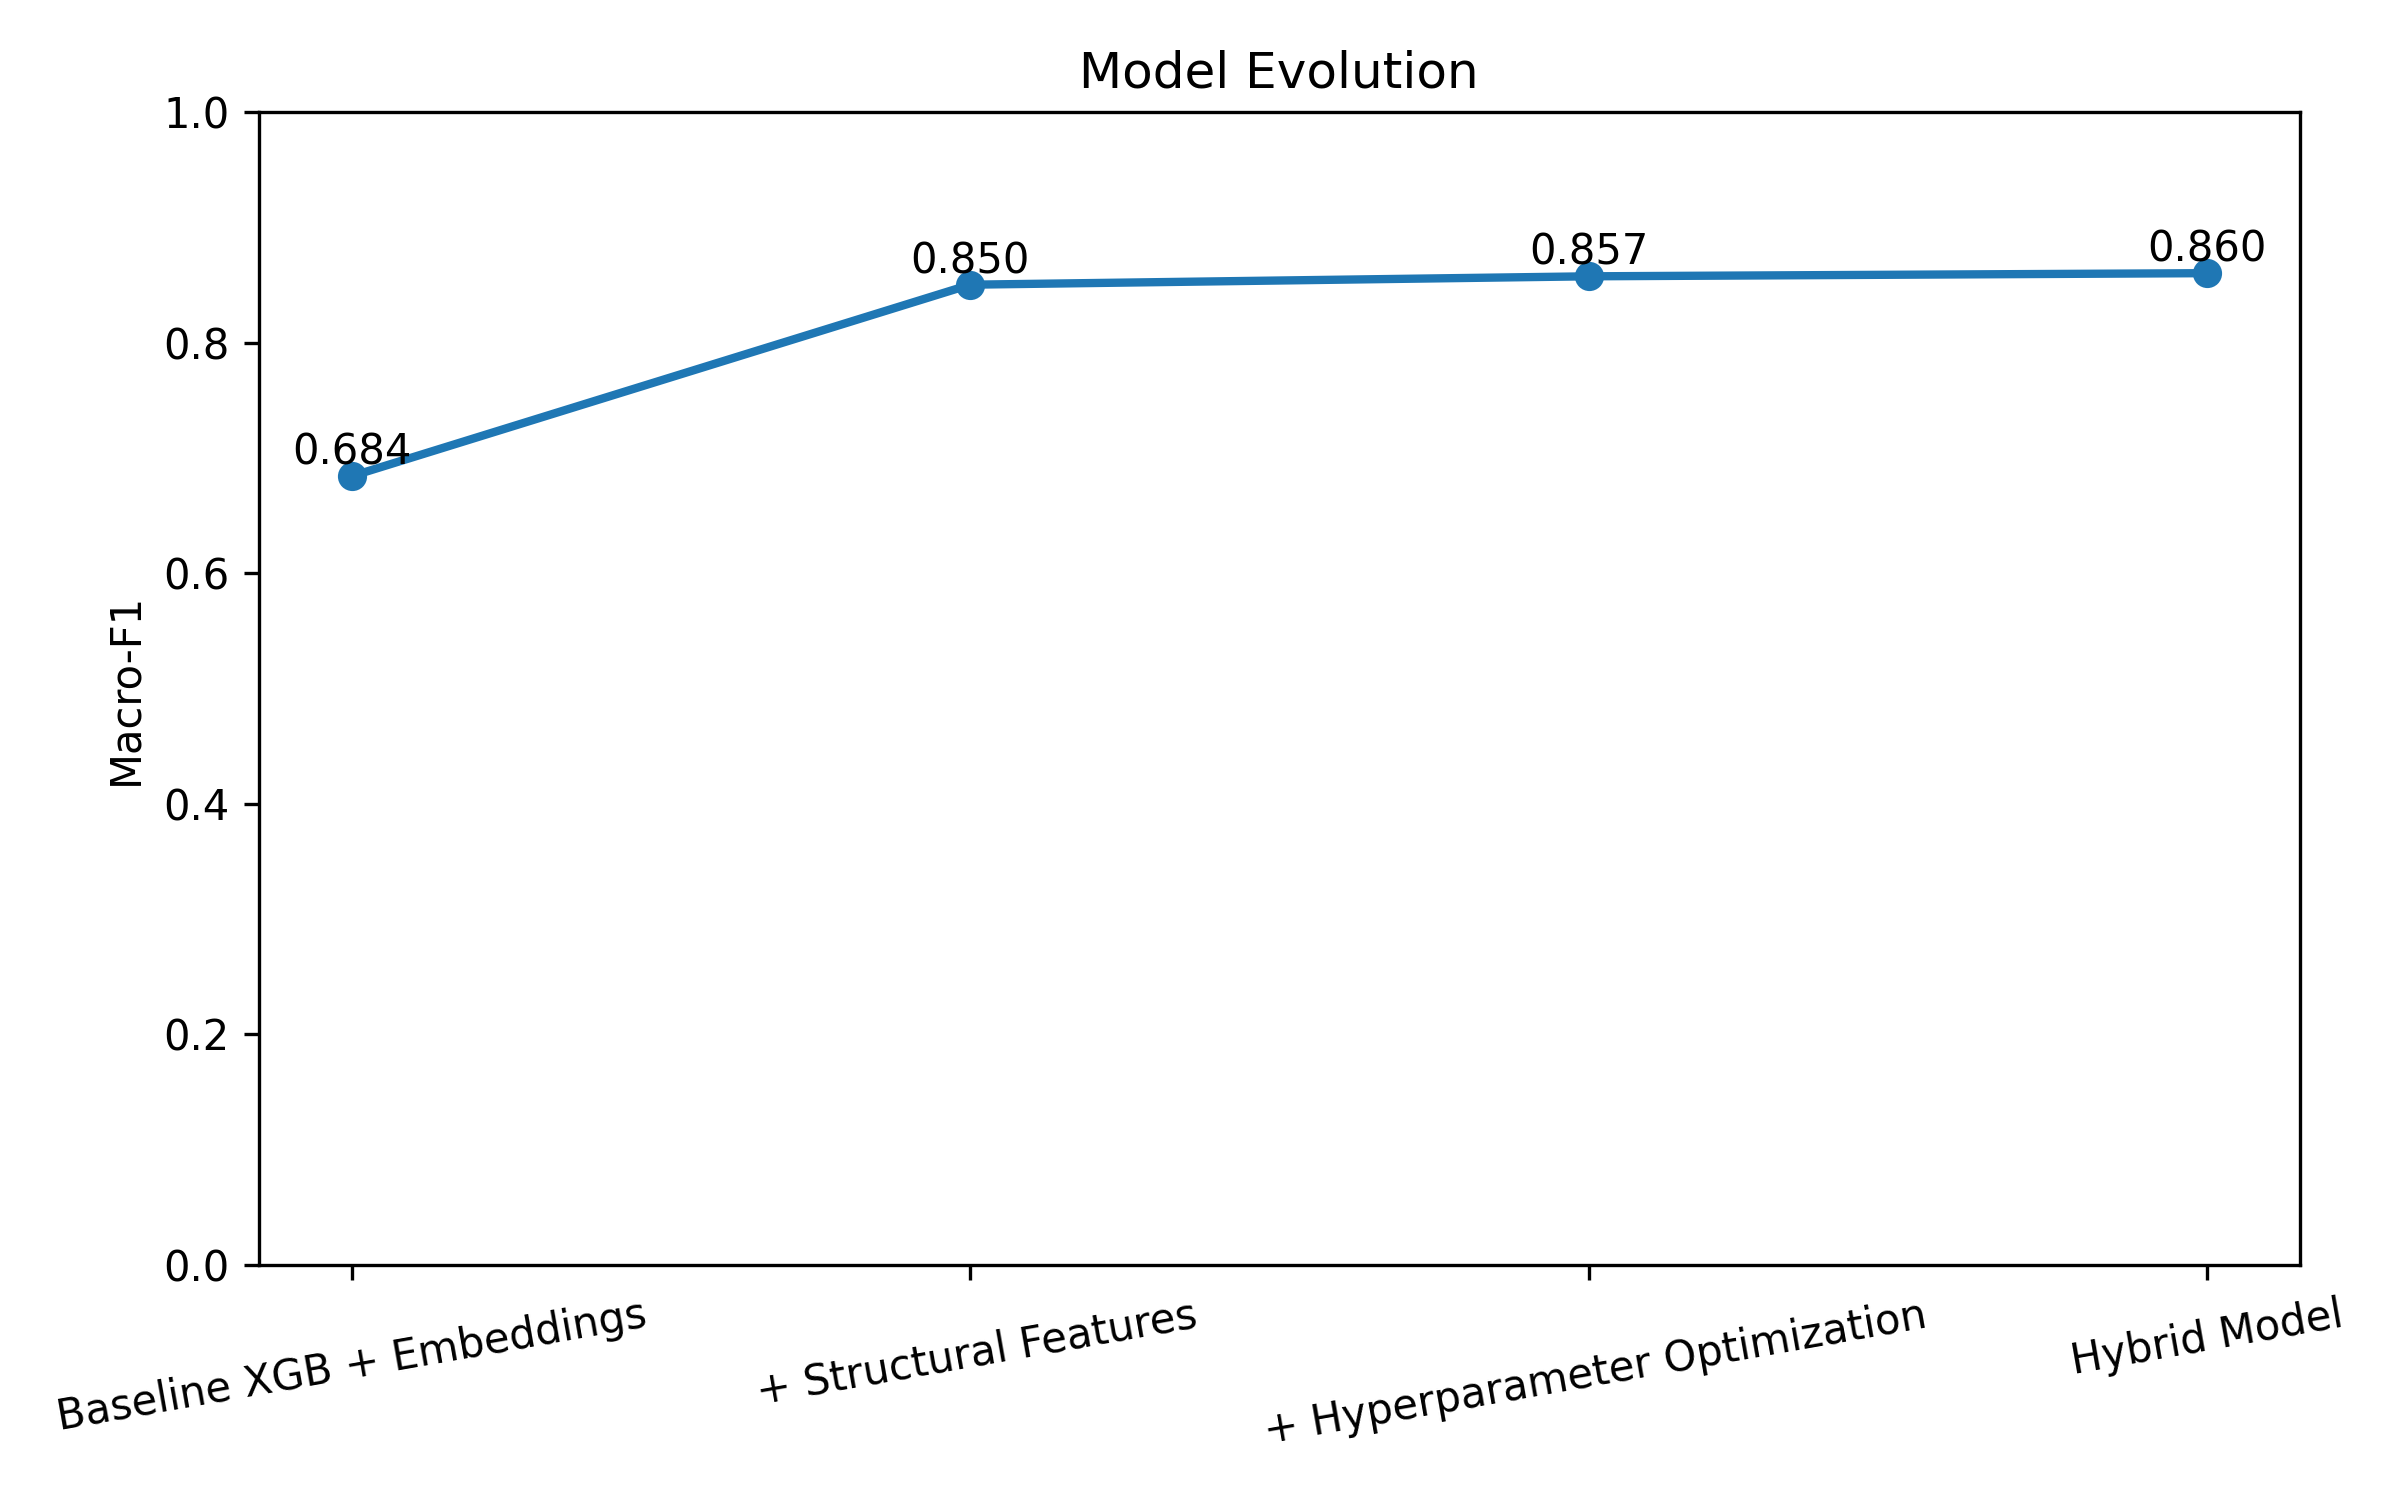
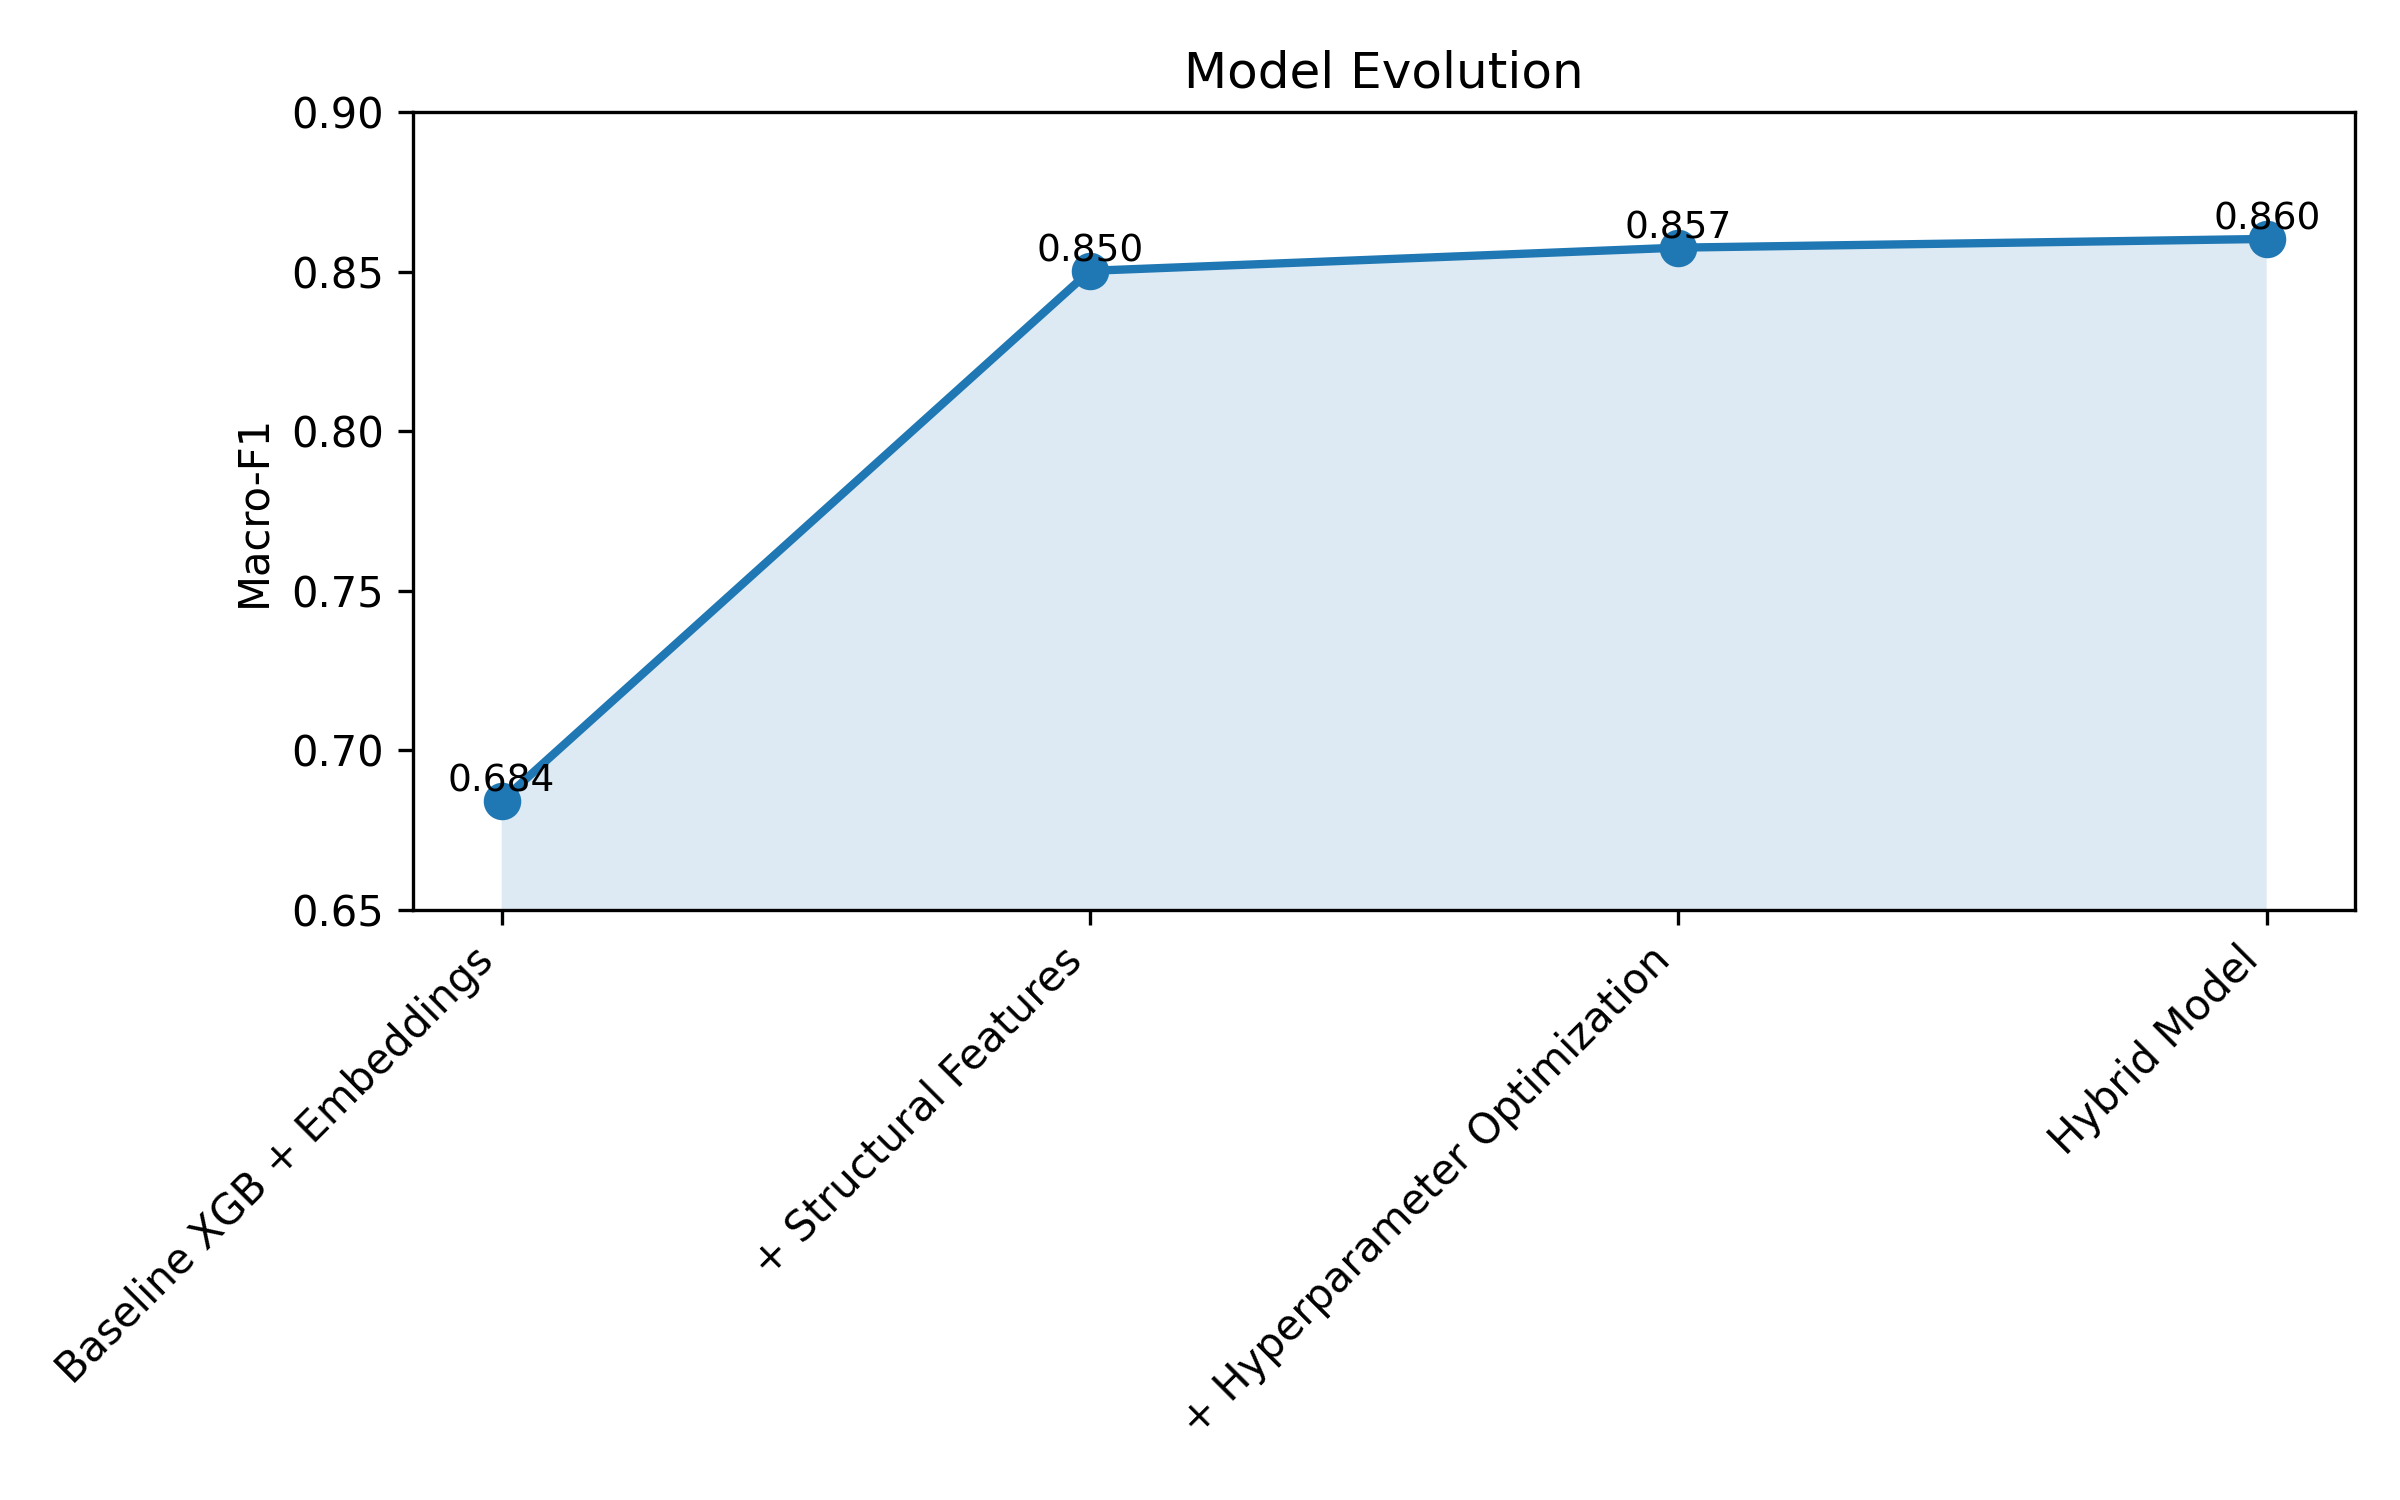
Letzte Seite mit neuen grafiken

diff --git a/streamlit/pages/08_Final_Hybrid_Model.py b/streamlit/pages/08_Final_Hybrid_Model.py
@@ -1,7 +1,5 @@
 import streamlit as st
 import pandas as pd
-import matplotlib.pyplot as plt
-import numpy as np
 
 # =========================================================
 # CONFIG
@@ -13,16 +11,11 @@ st.set_page_config(
 )
 
 # =========================================================
-# LOAD REPORTS
+# LOAD DATA
 # =========================================================
 
-comparison_df = pd.read_csv(
-    "reports/final_model_comparison.csv"
-)
-
-per_class_df = pd.read_csv(
-    "reports/final_per_class_f1.csv"
-)
+comparison_df = pd.read_csv("reports/final_model_comparison.csv")
+per_class_df = pd.read_csv("reports/final_per_class_f1.csv")
 
 # =========================================================
 # TITLE
@@ -32,15 +25,15 @@ st.title("🚀 Final Model Evolution")
 
 st.markdown(
     """
-    After identifying feature representation as the dominant factor,
-    the strongest components were combined into a final optimized pipeline.
+    After identifying feature representation as the key driver of performance,
+    we combine all insights into a final optimized hybrid model.
     """
 )
 
 st.markdown("---")
 
 # =========================================================
-# SECTION 1 — FINAL PIPELINE
+# SECTION 1 — STRATEGY
 # =========================================================
 
 st.header("1️⃣ Final Modeling Strategy")
@@ -53,146 +46,132 @@ with col1:
         """
         ### Motivation
         
-        Previous experiments showed that:
+        Previous findings showed:
         
-        - sampling strategies produced limited improvements  
-        - representation quality strongly influenced performance  
-        
-        We therefore focused on combining the strongest
-        representation components into a unified model.
+        - sampling strategies had limited impact  
+        - feature representation was dominant  
+        - semantic ambiguity remained the core challenge  
         """
     )
 
 with col2:
 
-    st.success(
-        """
-        ### Final Pipeline
-        
-        - XGBoost  
-        - Structural Features  
-        - Embeddings  
-        - TF-IDF  
-        - Hyperparameter Optimization
-        """
-    )
+    pipeline_cols = st.columns(5)
+
+steps = [
+    "XGBoost",
+    "Structural\nFeatures",
+    "Embeddings",
+    "TF-IDF",
+    "Hyperparameter\nOptimization"
+]
+
+for col, step in zip(pipeline_cols, steps):
+
+    with col:
+        st.markdown(
+            f"""
+            <div style="
+                background-color:#f0f2f6;
+                padding:20px;
+                border-radius:12px;
+                text-align:center;
+                font-weight:bold;
+                height:100px;
+                display:flex;
+                align-items:center;
+                justify-content:center;
+            ">
+                {step}
+            </div>
+            """,
+            unsafe_allow_html=True
+        )
+
+st.markdown(
+    "<div style='text-align:center; font-size:28px;'>⬇️</div>",
+    unsafe_allow_html=True
+)
+
+st.markdown(
+    """
+    <div style="
+        background-color:#dff0d8;
+        padding:20px;
+        border-radius:12px;
+        text-align:center;
+        font-size:22px;
+        font-weight:bold;
+    ">
+        Final Hybrid Model
+    </div>
+    """,
+    unsafe_allow_html=True
+)
 
 # =========================================================
-# SECTION 2 — MODEL EVOLUTION
+# SECTION 2 — EVOLUTION
 # =========================================================
 
 st.header("2️⃣ Model Evolution")
 
-fig, ax = plt.subplots(figsize=(8,5))
-
-ax.plot(
-    comparison_df["stage"],
-    comparison_df["macro_f1_mean"],
-    marker="o",
-    linewidth=2
+st.image(
+    "reports/figures/model_evolution.png",
+    use_container_width=True
 )
-
-ax.set_ylim(0,1)
-
-ax.set_ylabel("Macro-F1")
-ax.set_title("Performance Evolution")
-
-for i, value in enumerate(comparison_df["macro_f1_mean"]):
-    ax.text(
-        i,
-        value + 0.01,
-        f"{value:.3f}",
-        ha="center"
-    )
-
-plt.xticks(rotation=10)
-
-st.pyplot(fig)
 
 st.info(
     """
-    ### Observation
+    ### Interpretation
     
-    Each modeling decision was directly motivated
-    by the findings of the previous investigations.
+    Each step reflects a targeted decision derived from prior experiments.
     
-    The largest improvements were achieved through:
+    The strongest gains come from:
     
-    - stronger feature representations  
-    - hybrid semantic + lexical signals  
-    - targeted hyperparameter optimization
+    - improved feature representation  
+    - hybrid semantic signals  
+    - hyperparameter optimization  
+    
+    The model does not improve randomly — it improves structurally.
     """
 )
 
 # =========================================================
-# SECTION 3 — FINAL PER-CLASS COMPARISON
+# SECTION 3 — PER CLASS
 # =========================================================
 
-st.header("3️⃣ Baseline vs Final Hybrid Model")
+st.header("3️⃣ Baseline vs Hybrid Model")
 
-col1, col2 = st.columns(2)
+st.image(
+    "reports/figures/final_per_class_comparison.png",
+    use_container_width=True
+)
 
-# ---------- BASELINE ----------
-
-with col1:
-
-    fig, ax = plt.subplots(figsize=(5,4))
-
-    ax.bar(
-        per_class_df["class"],
-        per_class_df["baseline_f1"]
-    )
-
-    ax.set_ylim(0,1)
-
-    ax.set_title("Baseline XGB + Embeddings")
-    ax.set_xlabel("Class")
-    ax.set_ylabel("F1 Score")
-
-    st.pyplot(fig)
-
-# ---------- HYBRID ----------
-
-with col2:
-
-    fig, ax = plt.subplots(figsize=(5,4))
-
-    ax.bar(
-        per_class_df["class"],
-        per_class_df["hybrid_f1"]
-    )
-
-    ax.set_ylim(0,1)
-
-    ax.set_title("Final Hybrid Model")
-    ax.set_xlabel("Class")
-    ax.set_ylabel("F1 Score")
-
-    st.pyplot(fig)
+st.markdown(
+    """
+    ### Insight
+    
+    - consistent improvement across all classes  
+    - strongest gains in mid-range classes  
+    - reduced class imbalance sensitivity  
+    
+    → confirms improved semantic stability of hybrid approach
+    """
+)
 
 # =========================================================
-# SECTION 4 — FINAL METRICS
+# SECTION 4 — SUMMARY
 # =========================================================
 
-st.header("4️⃣ Final Metrics Summary")
-
-summary = comparison_df[
-    ["stage", "macro_f1_mean", "rmse"]
-]
-
-summary.columns = [
-    "Model",
-    "Macro-F1",
-    "RMSE"
-]
+st.header("4️⃣ Final Metrics")
 
 st.dataframe(
-    summary,
+    comparison_df[["stage", "macro_f1_mean", "rmse"]],
     use_container_width=True
 )
 
 # =========================================================
-# SECTION 5 — FINAL CONCLUSION
+# SECTION 5 — CONCLUSION
 # =========================================================
 
 st.header("5️⃣ Scientific Conclusion")
@@ -201,25 +180,17 @@ st.success(
     """
     ### Key Finding
     
-    The strongest improvements were achieved through
-    representation enhancement rather than sampling-based interventions.
+    Performance improvements are not driven by sampling,
+    but by representation quality and hybrid feature design.
     
     ---
     
-    Combining:
+    The final model integrates:
     
     - semantic embeddings  
     - lexical TF-IDF signals  
-    - structural features  
+    - structural metadata  
     
-    produced the most robust and stable model behavior.
-    
-    ---
-    
-    The final hybrid model achieved the best balance between:
-    
-    - semantic understanding  
-    - lexical precision  
-    - ordinal consistency
+    → resulting in the most robust and stable performance across all classes.
     """
 )